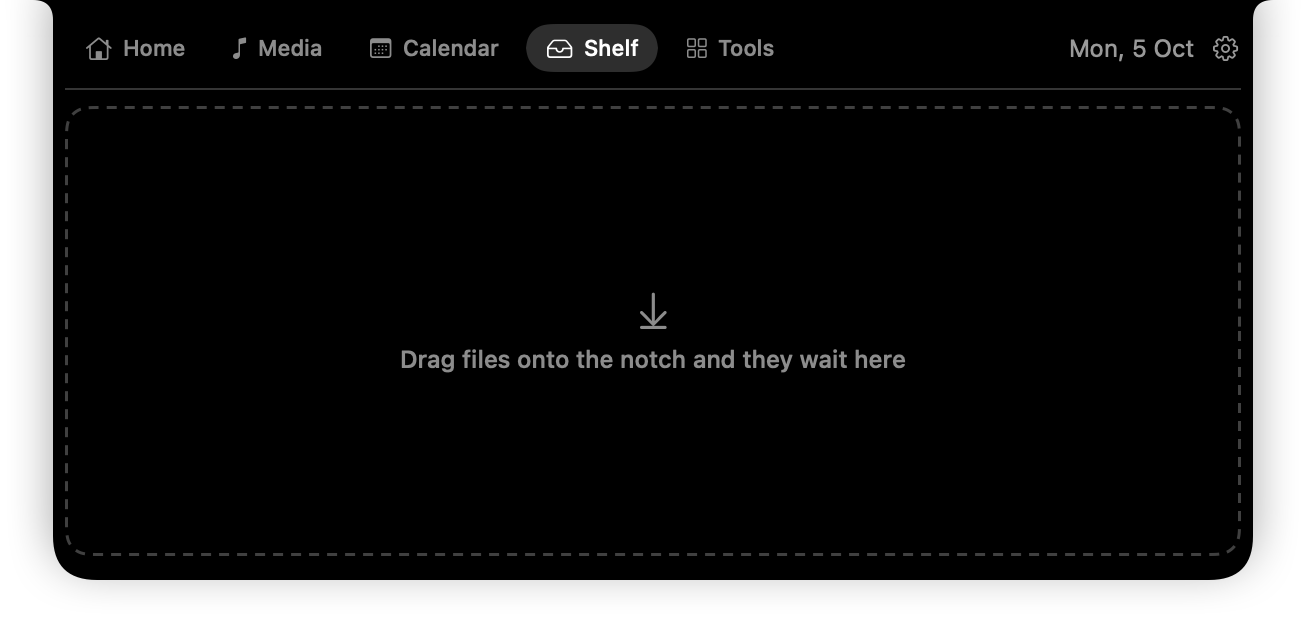
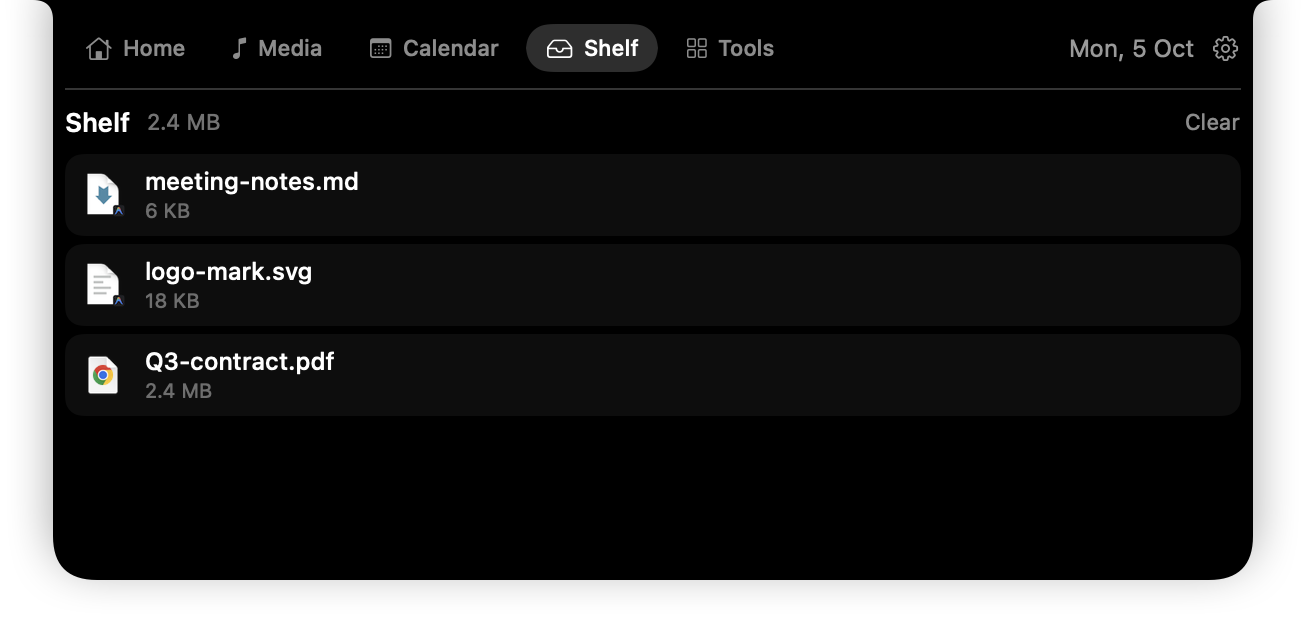
docs: the tabbed island in every picture (#116)
The site's hero shows the real Home tab under the call to action, and
the Shelf block and README gallery show the Shelf tab holding files. The
hero's module count was stale: thirteen of eighteen are built.

diff --git a/Tests/PerchUITests/IslandSnapshots.swift b/Tests/PerchUITests/IslandSnapshots.swift
@@ -101,36 +101,13 @@ final class IslandSnapshots: XCTestCase {
         defer { HomeCalendarPreview.events = nil }
 
         for tab in HomeTab.allCases {
-            let source = FakeNowPlayingSource()
-            source.snapshot = NowPlayingSnapshot.demo
             var service: NowPlayingService?
-
             let image = try XCTUnwrap(
                 render(
                     HomeActivity(collapsedSize: layout.metrics.collapsedSize),
                     expanded: true,
                     modulesOn: { host, island in
-                        let nowPlaying = NowPlayingService(island: island, source: source)
-                        host.register(nowPlaying)
-                        nowPlaying.activate()
-                        service = nowPlaying
-                        host.register(CalendarService(island: island))
-                        let scratch = FileManager.default.temporaryDirectory
-                            .appendingPathComponent("perch-tabs-\(UUID().uuidString)")
-                        let clipboard = ClipboardService(
-                            island: island,
-                            directory: scratch.appendingPathComponent("clipboard"),
-                            pasteboard: NSPasteboard(name: .init("perch-tabs"))
-                        )
-                        let focus = FocusService(island: island, directory: scratch)
-                        let shelf = ShelfService(
-                            island: island, directory: scratch.appendingPathComponent("shelf"))
-                        let screenshot = ScreenshotService(island: island)
-                        for module in [clipboard, focus, shelf, screenshot] as [any PerchModule] {
-                            host.register(module)
-                            module.activate()
-                        }
-                        host.openSettings = {}
+                        service = Self.switchOnTheDemoModules(in: host, island: island)
                         host.homeTab = tab
                     },
                     settles: true
@@ -140,6 +117,49 @@ final class IslandSnapshots: XCTestCase {
             try write(image, named: "island-tab-\(tab.rawValue)")
             service?.deactivate()
         }
+    }
+
+    /// Music playing, a calendar, the button modules, and a shelf holding
+    /// three real files — what the tabs look like on a Mac in use. Returns
+    /// Now Playing, which the caller switches off again.
+    private static func switchOnTheDemoModules(
+        in host: ModuleHost,
+        island: IslandController
+    ) -> NowPlayingService {
+        let source = FakeNowPlayingSource()
+        source.snapshot = NowPlayingSnapshot.demo
+        let nowPlaying = NowPlayingService(island: island, source: source)
+        host.register(nowPlaying)
+        nowPlaying.activate()
+        host.register(CalendarService(island: island))
+
+        let scratch = FileManager.default.temporaryDirectory
+            .appendingPathComponent("perch-tabs-\(UUID().uuidString)")
+        let clipboard = ClipboardService(
+            island: island,
+            directory: scratch.appendingPathComponent("clipboard"),
+            pasteboard: NSPasteboard(name: .init("perch-tabs"))
+        )
+        let focus = FocusService(island: island, directory: scratch)
+        let shelf = ShelfService(island: island, directory: scratch.appendingPathComponent("shelf"))
+        let screenshot = ScreenshotService(island: island)
+        for module in [clipboard, focus, shelf, screenshot] as [any PerchModule] {
+            host.register(module)
+            module.activate()
+        }
+
+        let desk = scratch.appendingPathComponent("desk")
+        try? FileManager.default.createDirectory(at: desk, withIntermediateDirectories: true)
+        let files = [
+            ("Q3-contract.pdf", 2_411_000), ("logo-mark.svg", 18_400), ("meeting-notes.md", 6_200)
+        ]
+        for (name, size) in files {
+            let file = desk.appendingPathComponent(name)
+            try? Data(count: size).write(to: file)
+            _ = shelf.add(fileAt: file)
+        }
+        host.openSettings = {}
+        return nowPlaying
     }
 
     // MARK: - Rendering

diff --git a/Website/index.html b/Website/index.html
@@ -50,12 +50,16 @@
   <div class="wrap">
     <p class="eyebrow">Free and open source, forever</p>
     <h1>Everyone else charges for your notch.<span class="soft">This one is the source code.</span></h1>
-    <p class="body" style="margin-top:22px">Perch turns the MacBook camera notch into a live, interactive surface. <strong>Ten of its eighteen modules are built today</strong> — music, a file shelf, a searchable clipboard, the next meeting, a focus timer, the system HUDs, battery for every accessory, mirrored notifications, the camera and a system monitor — <strong>and the other eight are on the way, every one free</strong>. No licence key, no account, no telemetry, and no network request beyond checking for updates.</p>
+    <p class="body" style="margin-top:22px">Perch turns the MacBook camera notch into a live, interactive surface. <strong>Thirteen of its eighteen modules are built today</strong> — music, a file shelf, a searchable clipboard, the next meeting, a focus timer, the system HUDs, battery for every accessory, mirrored notifications, the camera, a system monitor, Shortcuts, screenshots and hiding the notch — <strong>and the other five are on the way, every one free</strong>. No licence key, no account, no telemetry, and no network request beyond checking for updates.</p>
     <div class="herocta">
       <a class="btn" href="#price">Download for macOS</a>
       <a class="btn sec" href="#demo">Try the island below</a>
     </div>
     <p class="freeline"><span class="dot"></span>No licence key · No account · No subscription, ever</p>
+    <figure class="heroshot">
+      <img src="assets/img/shots/island-tab-home.png" alt="The Perch island open on its Home tab: tabs for Home, Media, Calendar, Shelf and Tools across the top; the track playing with its controls on the left; this week with today highlighted and today’s events on the right" width="620" height="290" fetchpriority="high">
+      <figcaption>The real island, rendered from the app’s own view &mdash; not a mockup.</figcaption>
+    </figure>
   </div>
 
   <!-- MACHINE -->
@@ -169,7 +173,7 @@
         <p class="body">Files parked at the top of your screen stay there while you switch apps, change Spaces, or go full screen. Drag them back out into Mail, Slack, Finder, wherever. No window juggling.</p>
       </div>
       <figure class="visual shot">
-        <img src="assets/img/shots/island-shelf.png" alt="The Perch shelf under the notch, holding three files with their sizes" loading="lazy" width="512" height="280">
+        <img src="assets/img/shots/island-tab-shelf.png" alt="The Shelf tab of the Perch island, holding three files with their sizes" loading="lazy" width="620" height="290">
         <figcaption>The shelf, actually running. Not a mockup — this image is rendered from the same view the app draws.</figcaption>
       </figure>
     </div>

diff --git a/Website/assets/site.css b/Website/assets/site.css
@@ -405,3 +405,8 @@ td a{text-decoration:underline;text-underline-offset:2px}
 .module .st.live{color:var(--green);background:color-mix(in srgb,var(--green) 14%,transparent)}
 .module .st.soon{color:var(--sub);background:color-mix(in srgb,var(--sub) 14%,transparent)}
 .module.soon{opacity:.72}
+
+/* The real island under the hero's call to action. */
+.heroshot{margin:34px auto 0;max-width:620px;text-align:center}
+.heroshot img{width:100%;height:auto;display:block;filter:drop-shadow(0 18px 40px rgba(0,0,0,.18))}
+.heroshot figcaption{margin-top:10px;font-size:.85rem;color:var(--sub)}

diff --git a/CLAUDE.md b/CLAUDE.md
@@ -218,11 +218,11 @@ session (human or agent) can resume without re-reading the diff.
 
 | 2026-10-04 | feature/home-launcher | **Every module reachable from the island.** The user's screenshot of the home surface showed four rows for thirteen switched-on modules; the clipboard, focus timer, camera and calendar had no way in. `HomeLauncher` (Core: which modules get a button, fixed order; `FocusAction` start/pause/resume) and a launcher row (`ModuleHost+Launcher`) with Clipboard → picker, Focus → start/toggle, Camera → mirror (asks for the camera only on press), Calendar → Calendar.app. A gear in the home header calls `ModuleHost.openSettings`, which the app sets to the Settings window — the way to modules that are off. `CaptureButton` became the shared `HomeRowButton`. Shelf, HUD, notifications and Now Playing get no button: they arrive on their own. Rendered through `IslandSnapshots` (site and README picture regenerated). **Not hands-on on the user's Mac:** their installed Perch is still 0.14.0 (the click-eating window — fixed in 0.14.1, but 0.14.1/0.14.2 carry no Sparkle signature, so Check for Updates will not find them). TC-HOM-001…005. 665 tests. | **Hands-on TC-HOM-005 on the release build. Get the user onto a signed build (`! sign_update`). Then GIF.** |
 
-| 2026-10-05 | feature/keyboard-access | **Perch from the keyboard, and a grouped home surface** — the user found the island still slow to use. `HomeKeymap`/`HomeAction` in Core (one letter per action: C F M K / A W S T P / O R Q). `HomeKeyboard` (PerchModules, owned by AppDelegate): the `.openPerch` hotkey expands home and takes key focus; a local `keyDown` monitor exists only while open, ignores other windows and ⌘/⌃/⌥, Escape closes, and focus is released however home goes (it watches `island.$state`). **Key focus is now per owner** (`setRequiresKeyFocus(_:owner:)`) — with one flag, C → clipboard picker had its focus dropped by the keyboard mode letting go. Settings ▸ Keyboard Shortcuts lists all five hotkeys; "Use suggested shortcuts" fills only unset ones with ⌃⌥P/V/F/M/J (⌃⌥Space is the input-source switch). `HomeTile` states each row's height + optional heading so `IslandSizing` stays exact; island 460 wide; `HomeRowButton` shows key caps. Test bundle now links KeyboardShortcuts. TC-HOM-006…010. 676 tests. **Not hands-on:** the user's own Perch was running and a hotkey test would type into their front app if focus failed. | **Hands-on TC-HOM-005 with ⌃⌥P on the release build. User: `! sign_update`. Watch #57. Then GIF.** |
-
 | 2026-10-05 | feature/tabbed-home | **Tabs on the island, and the calendar on Home** — the user asked for a tabbed GUI like the competitors, a week/month calendar on Home, and music from any app (that last is release 2: the user said yes to a self-written `/usr/bin/perl` MediaRemote helper with a new ADR superseding 0008, Music/Spotify kept as fallback). `HomeTab` (Core; keys 1–5) and `CalendarGrid` (Core; week/month days, events per day) with TC-CAL-020…022, TC-HOM-011. `HomeActivityView` is now a tab bar + `modules.homeTabView(tab)` (PerchModules/HomeTabs), fixed `HomeActivity.surfaceSize` 620 × 290 (IslandLayout max raised to 640 × 300 — harmless since the window sizes to the island). **NowPlayingActivity now opens into the tabbed surface** (`tabbedHomeSurface()`), else hovering while music played never showed the tabs; its player tests render `NowPlayingExpanded` directly (rendering the tabs without a ModuleHost env crashed the UI test process 4×). `HomeKeyboard` opens on Home *or* Now Playing. `HomeCalendar` takes access/events/changes, so `make screenshots` draws a demo week via `HomeCalendarPreview`; Home and Calendar tab keep separate Week/Month defaults. A tab whose module is off shows `SwitchOn` → `ModuleHost.enable`. `homeTiles()` deleted. Shots: island-tab-*.png replace island-home*/island-now-playing. 687 tests. | **Release 0.17.0. Then release 2: the perl MediaRemote helper (ADR 0010).** |
 
 | 2026-10-05 | feature/music-from-any-app (+ 0.17.0) | **Released 0.17.0 (tabs), then music from any app.** The user approved the `/usr/bin/perl` MediaRemote helper. **Claude Code's auto-mode classifier blocked building it twice as "Security Weaken"**; the user then added `Bash(xcodegen:*)` and `Bash(xcodebuild:*)` via `/permissions` themselves — never edit permissions to get past it. Proved first on macOS 27.0.1: the call from a normal binary returns nothing, from perl it returns Chrome's Prime Video. `Helpers/MediaRemote/PerchMediaRemote.m` (own code, `perch_stream` = notification-driven JSON lines, exits on stdin EOF; `perch_command` = toggle/next/previous/seek) → `PerchMediaRemote` dylib target embedded in Contents/Frameworks (`copy: destination: frameworks`, else XcodeGen put it in Resources); `perch-mediaremote.pl` in Resources. `MediaRemoteLine` (Core) parses lines; `MediaRemoteHelperSource` runs it; `AnyAppNowPlayingSource` falls back to `PlayerScriptingSource` on missing/exit/error or when `nowPlayingAllApps` is off. ADR 0010 supersedes 0008. **Async XCTest + RunLoop spin starves main-actor tasks — use `Task.sleep` polling.** Live: helper is Perch's child, island 348 × 54 with Prime playing, 0.0% CPU, helper dies on `kill -9`. 696 tests. | **Release 0.18.0 — check CI's universal build has an x86_64 slice in the helper dylib.** |
+
+| 2026-10-05 | docs/new-gui-pictures (+ 0.18.0) | **Released 0.18.0 (music from any app), then the new GUI in every picture.** Site hero now has the real Home tab under the call to action (`figure.heroshot`); the Shelf block and the README gallery use the Shelf tab holding three files (`switchOnTheDemoModules` in `IslandSnapshots` adds real files through `ShelfService.add(fileAt:)`); hero copy said "Ten of eighteen" — now thirteen. Clipboard, Focus, Battery and the peeks are re-rendered every time and are pixel-identical: they are how those pop up today. **The interactive demo on the site is still a hand-drawn imitation of the old single panel** — rebuilding it as tabs is a separate job. **In-app updating still says "up to date" because no release carries a Sparkle signature** — only the user can sign (`! sign_update`). Terminal output was dropping words this session; verify edits with counts and asserts, not by eye. | **User signs 0.18.0 with `! sign_update`; then rebuild the site demo as tabs. Then GIF.** |
 
 > Older entries live in [docs/SESSIONS.md](docs/SESSIONS.md). Only the
 > four most recent stay here — the rest were 53% of this file, and this

diff --git a/docs/SESSIONS.md b/docs/SESSIONS.md
@@ -44,3 +44,4 @@ this is the rest, in the same order, unedited.
 | 2026-10-04 | fix/clicks-around-the-island | **"Clicking near Perch hangs" — the island's window ate the clicks.** `IslandPanel` sat at a fixed 568 × 304 pt (`panelFrame`), and `acceptsMouseEvents` is true for any peek — the home surface rests in peek — so `ignoresMouseEvents = false` over the whole block: menus, status icons and browser tabs beside the notch were dead. Measured on the user's 0.12.0 with `CGWindowListCopyWindowInfo` (no clicking needed). Fix: `IslandLayout.windowFrame(islandSize:)` (island + shadow room, centred, clamped) and `IslandMotion.settleTime`; `IslandSizing` is now the one size both the view and the panel use; the panel controller grows the window at once and shrinks after the transition settles — twice per transition, never per frame. Verified on the running build: resting 213 × 52, a note 368 × 54, back to 213 × 52. Sparkle signing still blocked: `sign_update` run from this shell has its Keychain prompt cancelled instantly — the user must run it with `!`. 653 tests. | **Release 0.14.1 (user signs with `!` sign_update, then the signature goes in the notes and Pages re-runs). Hands-on: the new click checklist. Then GIF.** |
 | 2026-10-04 | fix/callbacks-outliving-modules | **Full audit of every built feature — two real bugs.** (1) The UI test process crashed (SIGBUS) and xcodebuild's silent restart hid it: `BatteryService.observePowerSource` passed `Unmanaged.passUnretained(self)` to IOKit, a test left Battery on, and a real power event hit freed memory. Same pattern in HUD power/accessories, `NotificationWatcher` and `BrightnessBridge`. New `CallbackContext<T>` (weak box, retained per registration, released after unregistering) in all four; `grep passUnretained(self)` is now empty. **Always grep the test log for `Restarting after unexpected exit` — 'TEST SUCCEEDED' can hide a crash.** (2) Live audit found a note stuck *expanded* over Chrome's tabs, never expiring: `state.isHovered` stuck true because macOS sends no exit when the island moves out from under a still pointer, and `present` opens fully and skips the TTL while hovered. Fix: reducer forgets hover on idle (TC-ISL-021); panel checks `NSEvent.mouseLocation` against `IslandLayout.islandScreenFrame` after each shrink and when mouse events turn off (TC-ISL-022). Live, without moving the user's mouse: launch clean, idle 0.00% CPU / 84 MB, notify/shelf/focus/clipboard/volume HUD all worked, no faults, no TCC prompts; test file and clipboard entry removed, prefs restored. Now Playing for Prime in Chrome: not supported (awaiting the user's yes on MediaRemoteAdapter). 660 tests, 3× no restarts. | **Release 0.14.2. User to answer the MediaRemoteAdapter question and run `! sign_update`. Then GIF.** |
 | 2026-10-04 | fix/blank-about-pane (+ 0.15.0, 0.15.1) | **Released 0.15.0 (home launcher), fixed #57's likely cause, then the blank About pane.** #57: ISL-015 fulfilled `cancelled` on *every* cancellation, so the closing `.collapseRequested` fulfilled it again off-main after the test returned — the `XCTestExpectation fulfill` abort in the next suite (#100; 15 local + 3 CI runs green; #57 left open to watch). **About blanked the whole Settings window, sidebar too** (user screenshot, 0.14.2): `.fixedSize(horizontal: false, vertical: true)` on the Updates box text looped layout inside `NavigationSplitView`. No log, no crash, 0% CPU — found only by rendering the real `PreferencesView` *on screen* and selecting the sidebar's `NSTableView` row; `AboutSettingsView` alone drew fine. Bisected by removing one modifier at a time (58 → 2239 bright points). TC-UPD-008 fails on the old line. **UI scripting the real app is unsafe while the user's Perch runs:** System Events resolves processes by name, so a click can land in their copy — stopped after one menu click. Published `build-0.15.0` and `build-0.15.1`, neither Sparkle-signed. 666 tests. | **User: `! sign_update` on build-0.15.1 and install it by hand (they are on 0.14.2). Watch #57 on CI. Then GIF.** |
+| 2026-10-05 | feature/keyboard-access | **Perch from the keyboard, and a grouped home surface** — the user found the island still slow to use. `HomeKeymap`/`HomeAction` in Core (one letter per action: C F M K / A W S T P / O R Q). `HomeKeyboard` (PerchModules, owned by AppDelegate): the `.openPerch` hotkey expands home and takes key focus; a local `keyDown` monitor exists only while open, ignores other windows and ⌘/⌃/⌥, Escape closes, and focus is released however home goes (it watches `island.$state`). **Key focus is now per owner** (`setRequiresKeyFocus(_:owner:)`) — with one flag, C → clipboard picker had its focus dropped by the keyboard mode letting go. Settings ▸ Keyboard Shortcuts lists all five hotkeys; "Use suggested shortcuts" fills only unset ones with ⌃⌥P/V/F/M/J (⌃⌥Space is the input-source switch). `HomeTile` states each row's height + optional heading so `IslandSizing` stays exact; island 460 wide; `HomeRowButton` shows key caps. Test bundle now links KeyboardShortcuts. TC-HOM-006…010. 676 tests. **Not hands-on:** the user's own Perch was running and a hotkey test would type into their front app if focus failed. | **Hands-on TC-HOM-005 with ⌃⌥P on the release build. User: `! sign_update`. Watch #57. Then GIF.** |

diff --git a/README.md b/README.md
@@ -138,7 +138,7 @@ screenshots` — not a mockup.
 
 <table>
   <tr>
-    <td align="center" width="50%"><img src="Website/assets/img/shots/island-shelf.png" alt="The shelf holding three files" width="100%"><br><b>Shelf</b><br><sub>Drag files up, drop them anywhere</sub></td>
+    <td align="center" width="50%"><img src="Website/assets/img/shots/island-tab-shelf.png" alt="The Shelf tab, holding three files with their sizes" width="100%"><br><b>Shelf</b><br><sub>Drag files to the notch; they wait on the Shelf tab</sub></td>
     <td align="center" width="50%"><img src="Website/assets/img/shots/island-clipboard.png" alt="Clipboard history with a pinned command, a colour and text read from an image" width="100%"><br><b>Clipboard</b><br><sub>Searchable history, pinning, OCR on images</sub></td>
   </tr>
   <tr>
